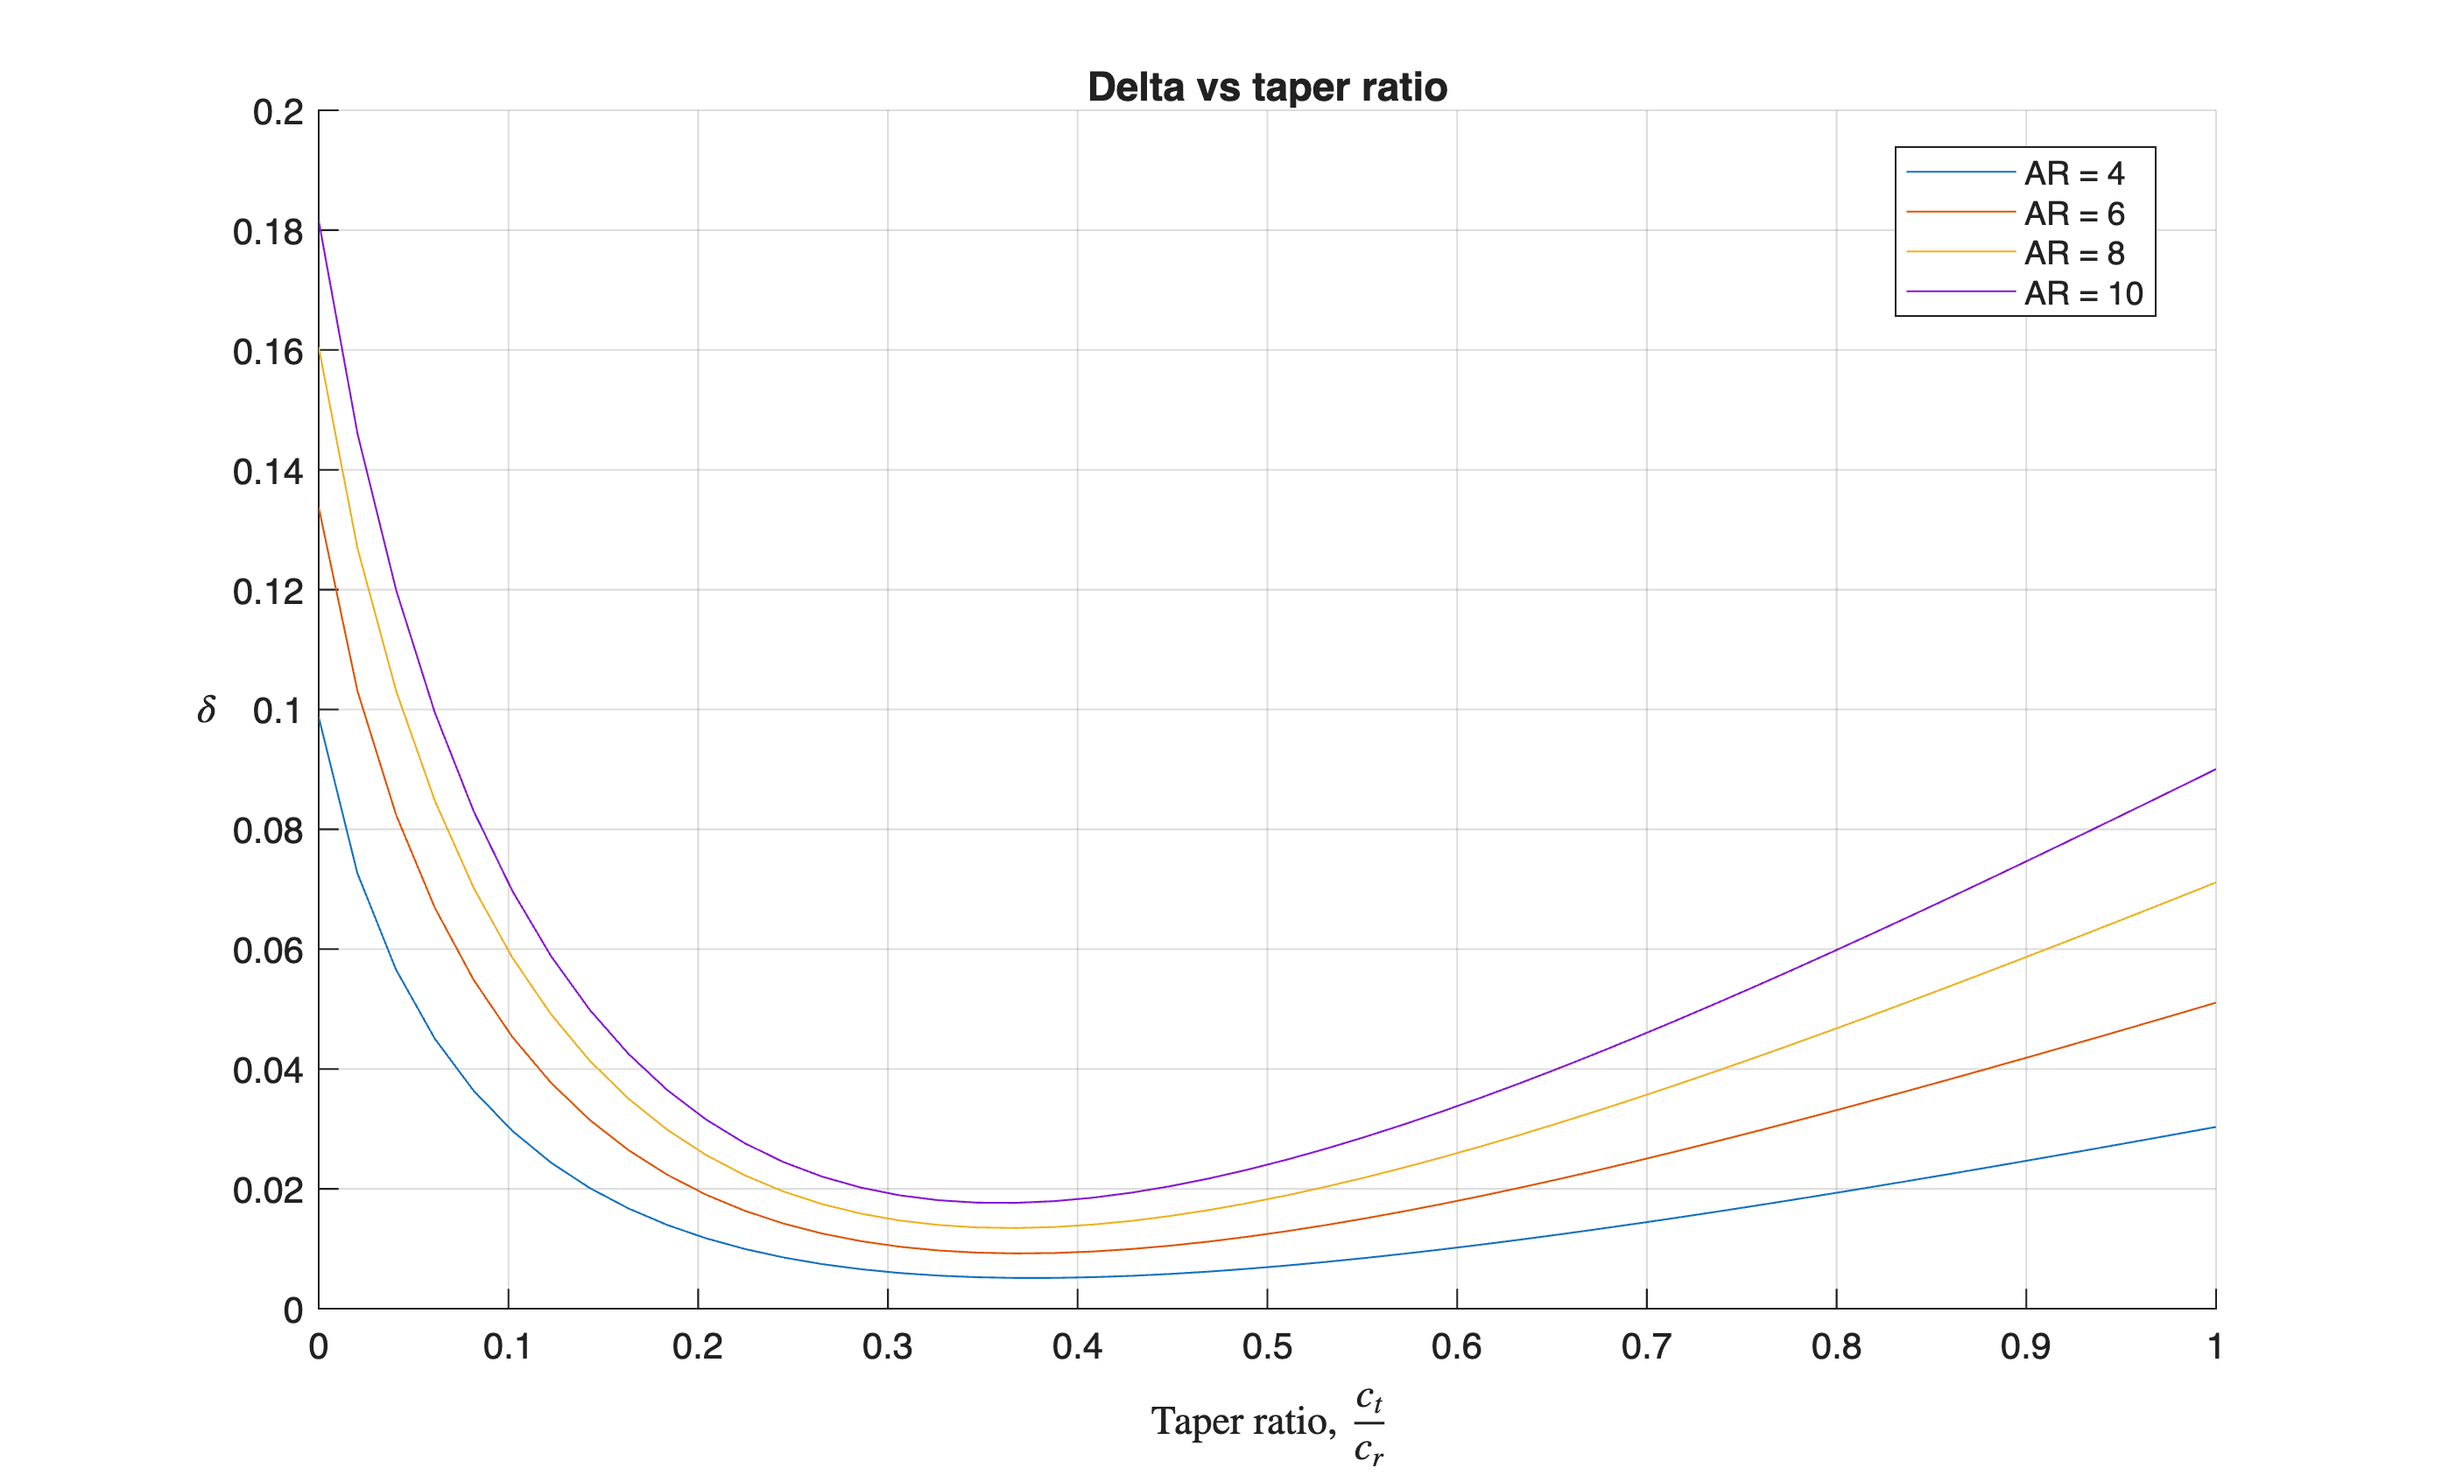
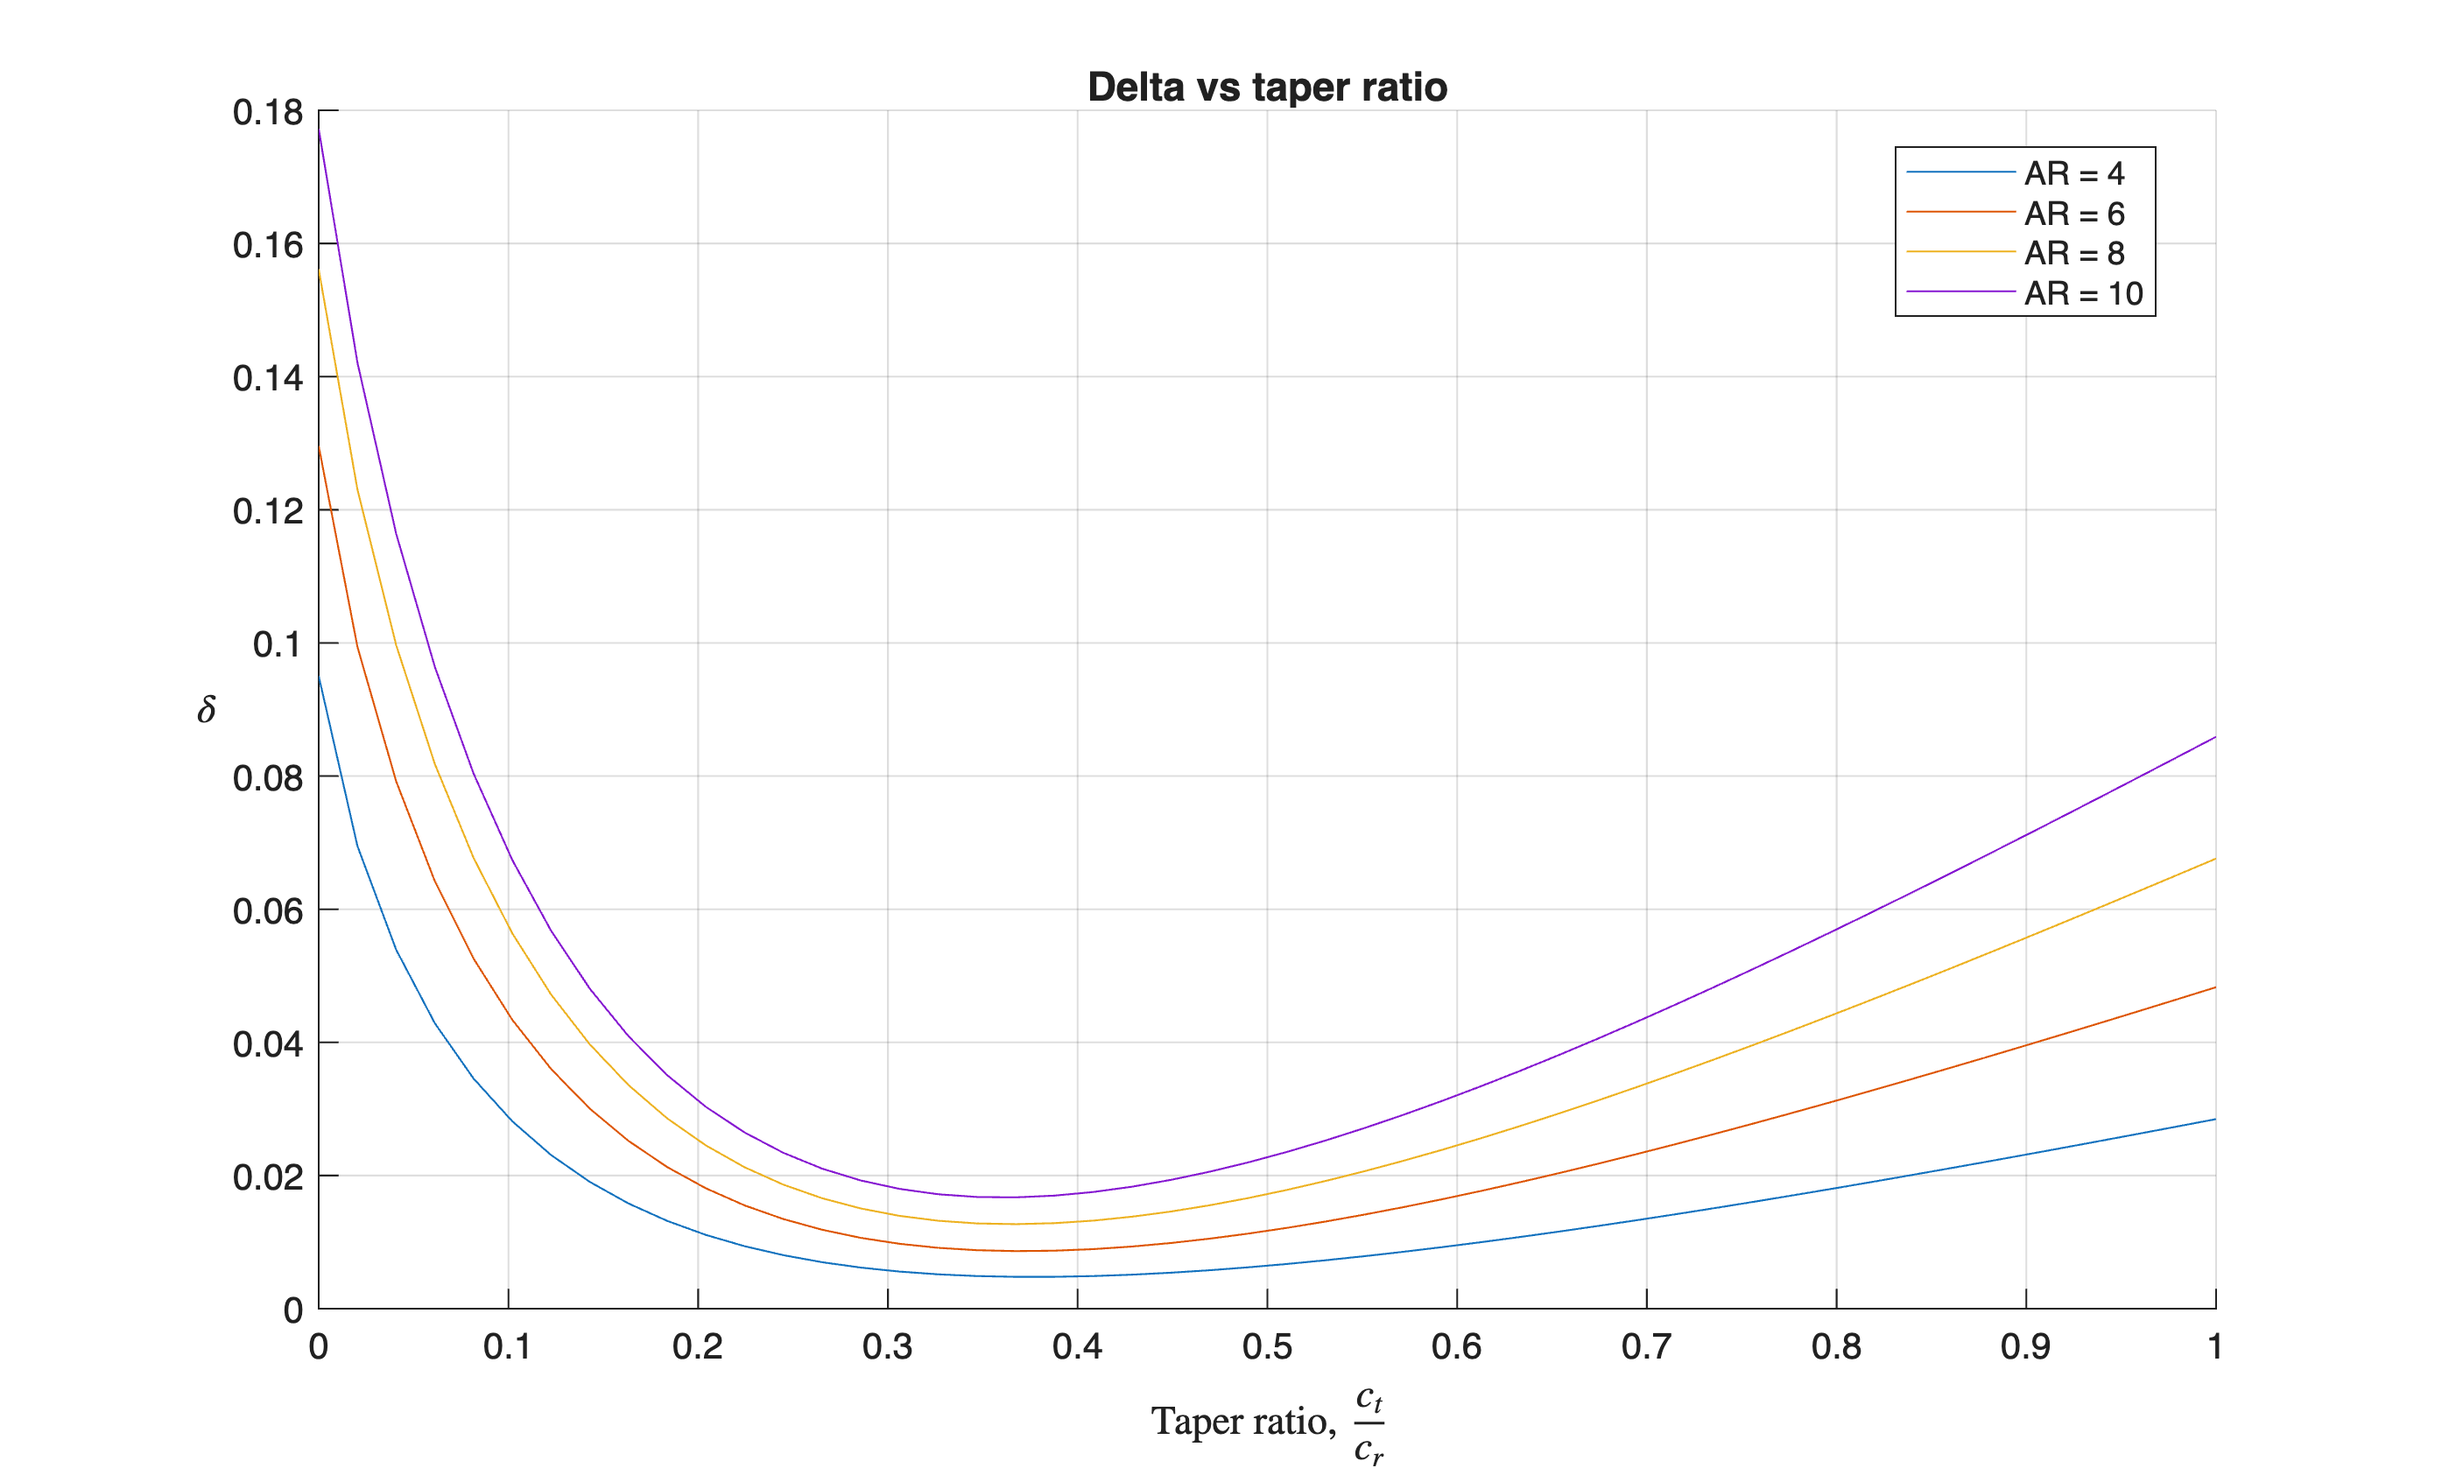
Slight corrections

diff --git a/Group43_PLLT.m b/Group43_PLLT.m
@@ -6,15 +6,20 @@ clear; clc; close all;
 
 % See the solution struct for the results if you edit this test case.
 % All units are either dimensionless or in [m] and [rad].
+
+% Angle of attack (5 degrees)
+aoa = 5 * pi/180;
+
+% Wing parameters
 b = 10;
-a0_t = 6.0;
-a0_r = 6.0;
+a0_t = 2 * pi;
+a0_r = 2 * pi;
 c_t = 0.75;
 c_r = 1.25;
-aero_t = -0.035;
-aero_r = -0.035;
-geo_t = 0.0873;
-geo_r = 0.0873;
+aero_t = 0;
+aero_r = 0;
+geo_t = aoa;
+geo_r = aoa;
 N = 20;
 
 % Calculate test case
